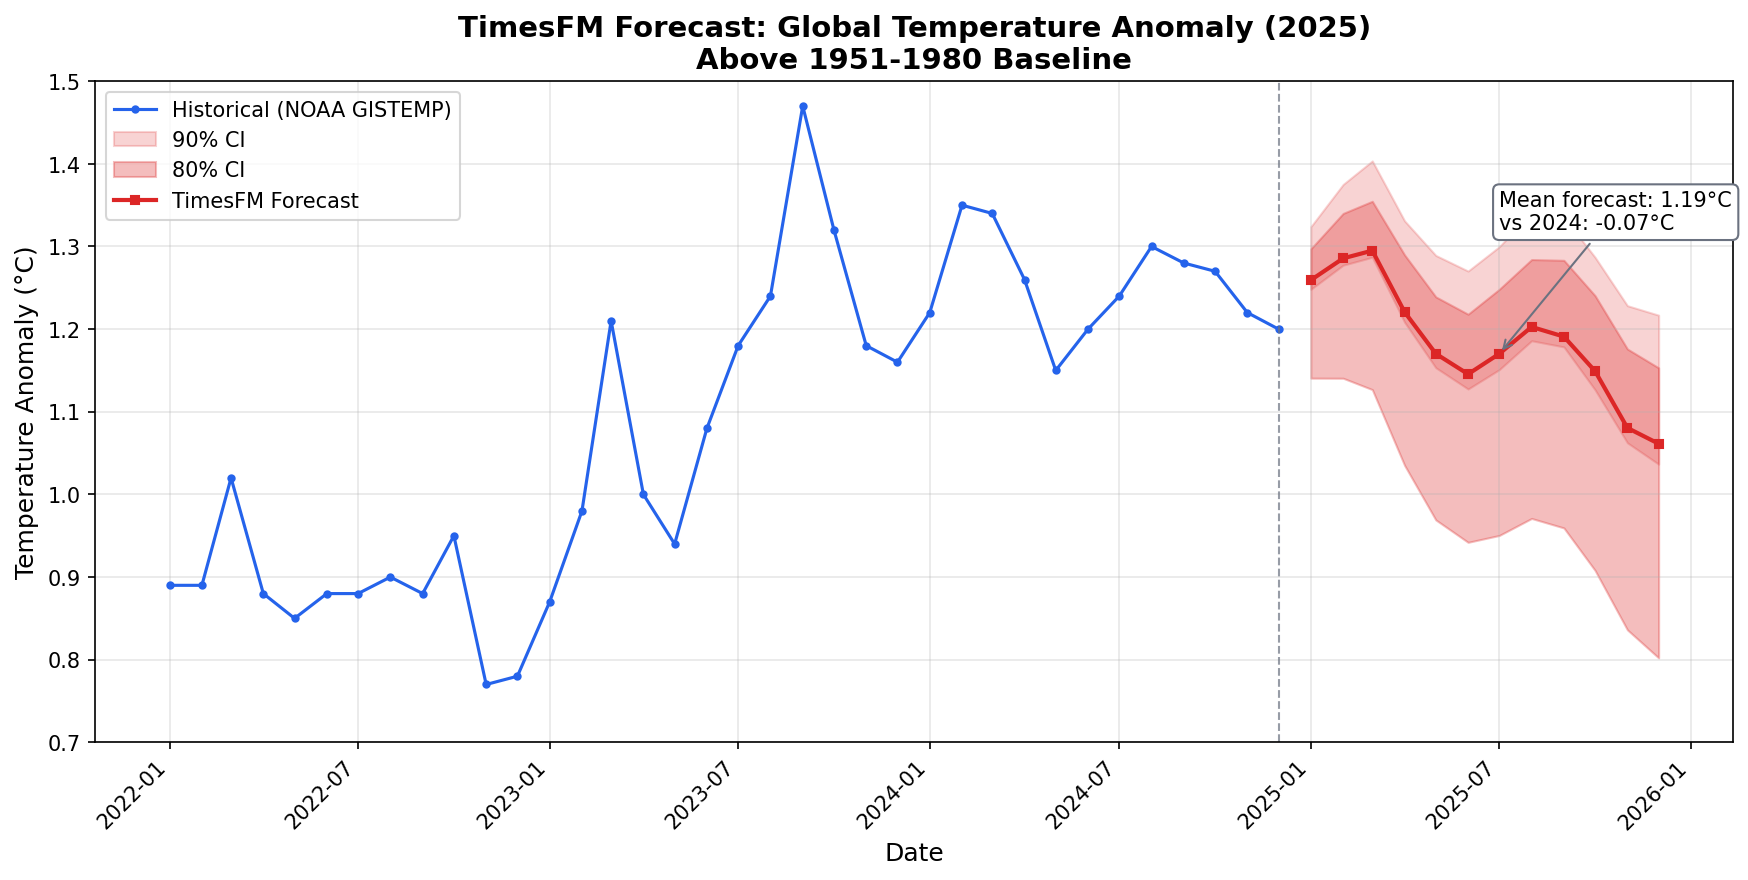
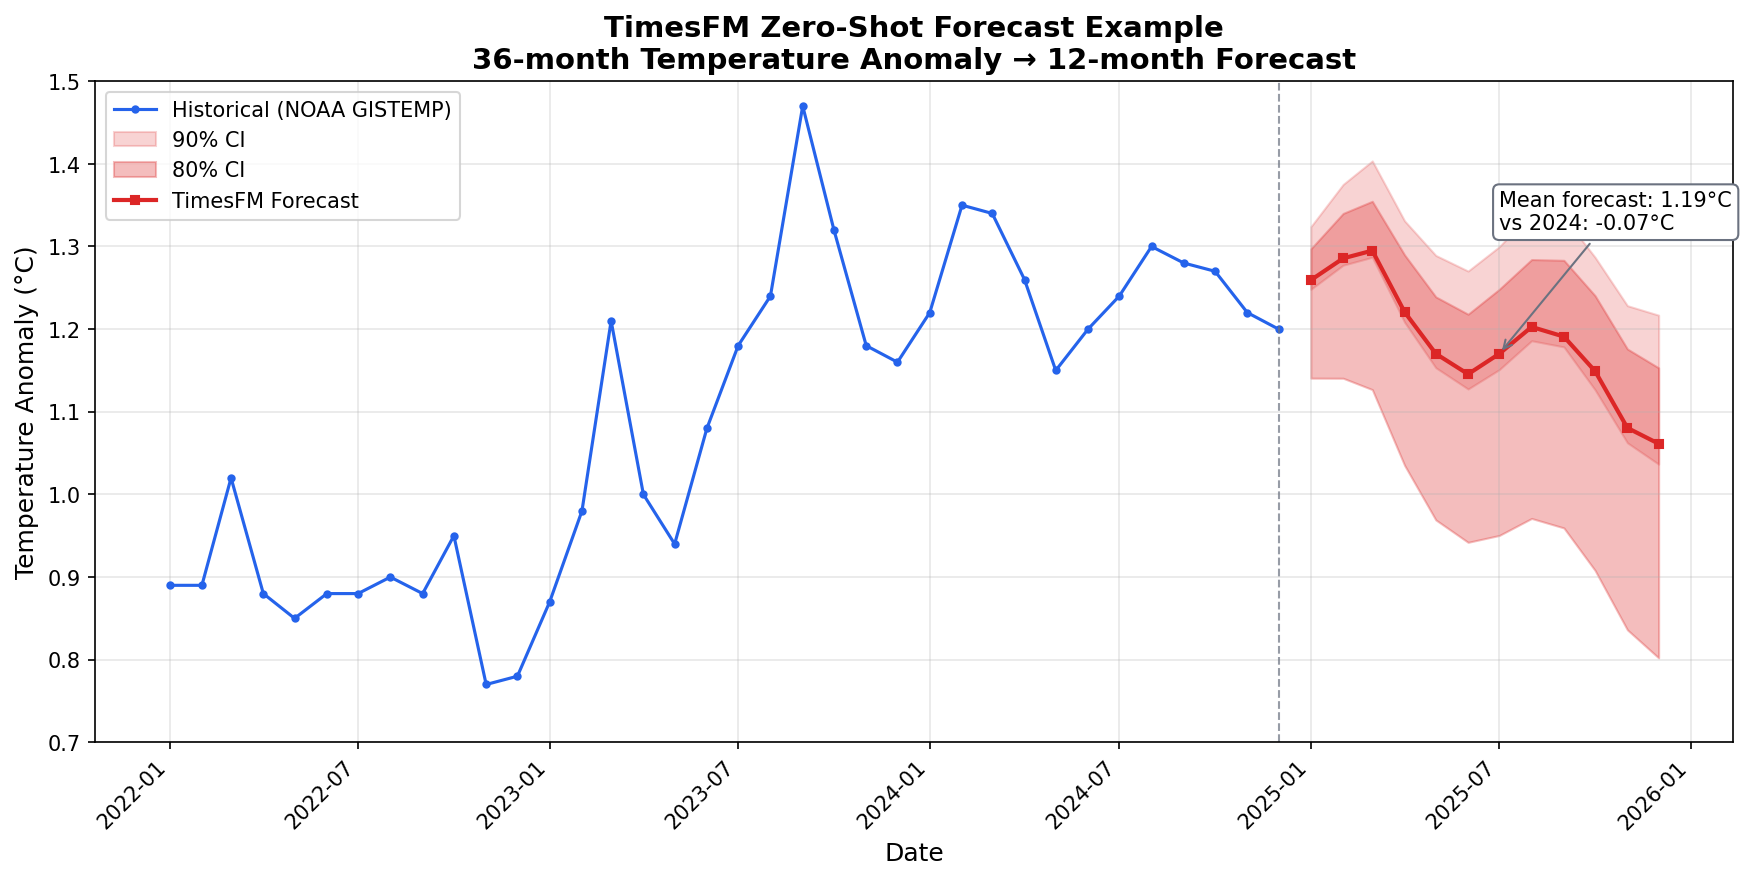
fix(example): update visualization title to clarify demo purpose
- Change title from 'Above 1951-1980 Baseline' to clearer example description
- New title: 'TimesFM Zero-Shot Forecast Example / 36-month Temperature Anomaly → 12-month Forecast'
- Makes it clear this is a demonstration with limited input data

Changed region(s): [[0.2471, 0.0, 0.7723, 0.092]]

diff --git a/scientific-skills/timesfm-forecasting/examples/global-temperature/visualize_forecast.py b/scientific-skills/timesfm-forecasting/examples/global-temperature/visualize_forecast.py
@@ -83,7 +83,7 @@ def main() -> None:
     ax.set_xlabel("Date", fontsize=12)
     ax.set_ylabel("Temperature Anomaly (°C)", fontsize=12)
     ax.set_title(
-        "TimesFM Forecast: Global Temperature Anomaly (2025)\nAbove 1951-1980 Baseline",
+        "TimesFM Zero-Shot Forecast Example\n36-month Temperature Anomaly → 12-month Forecast",
         fontsize=14,
         fontweight="bold",
     )
